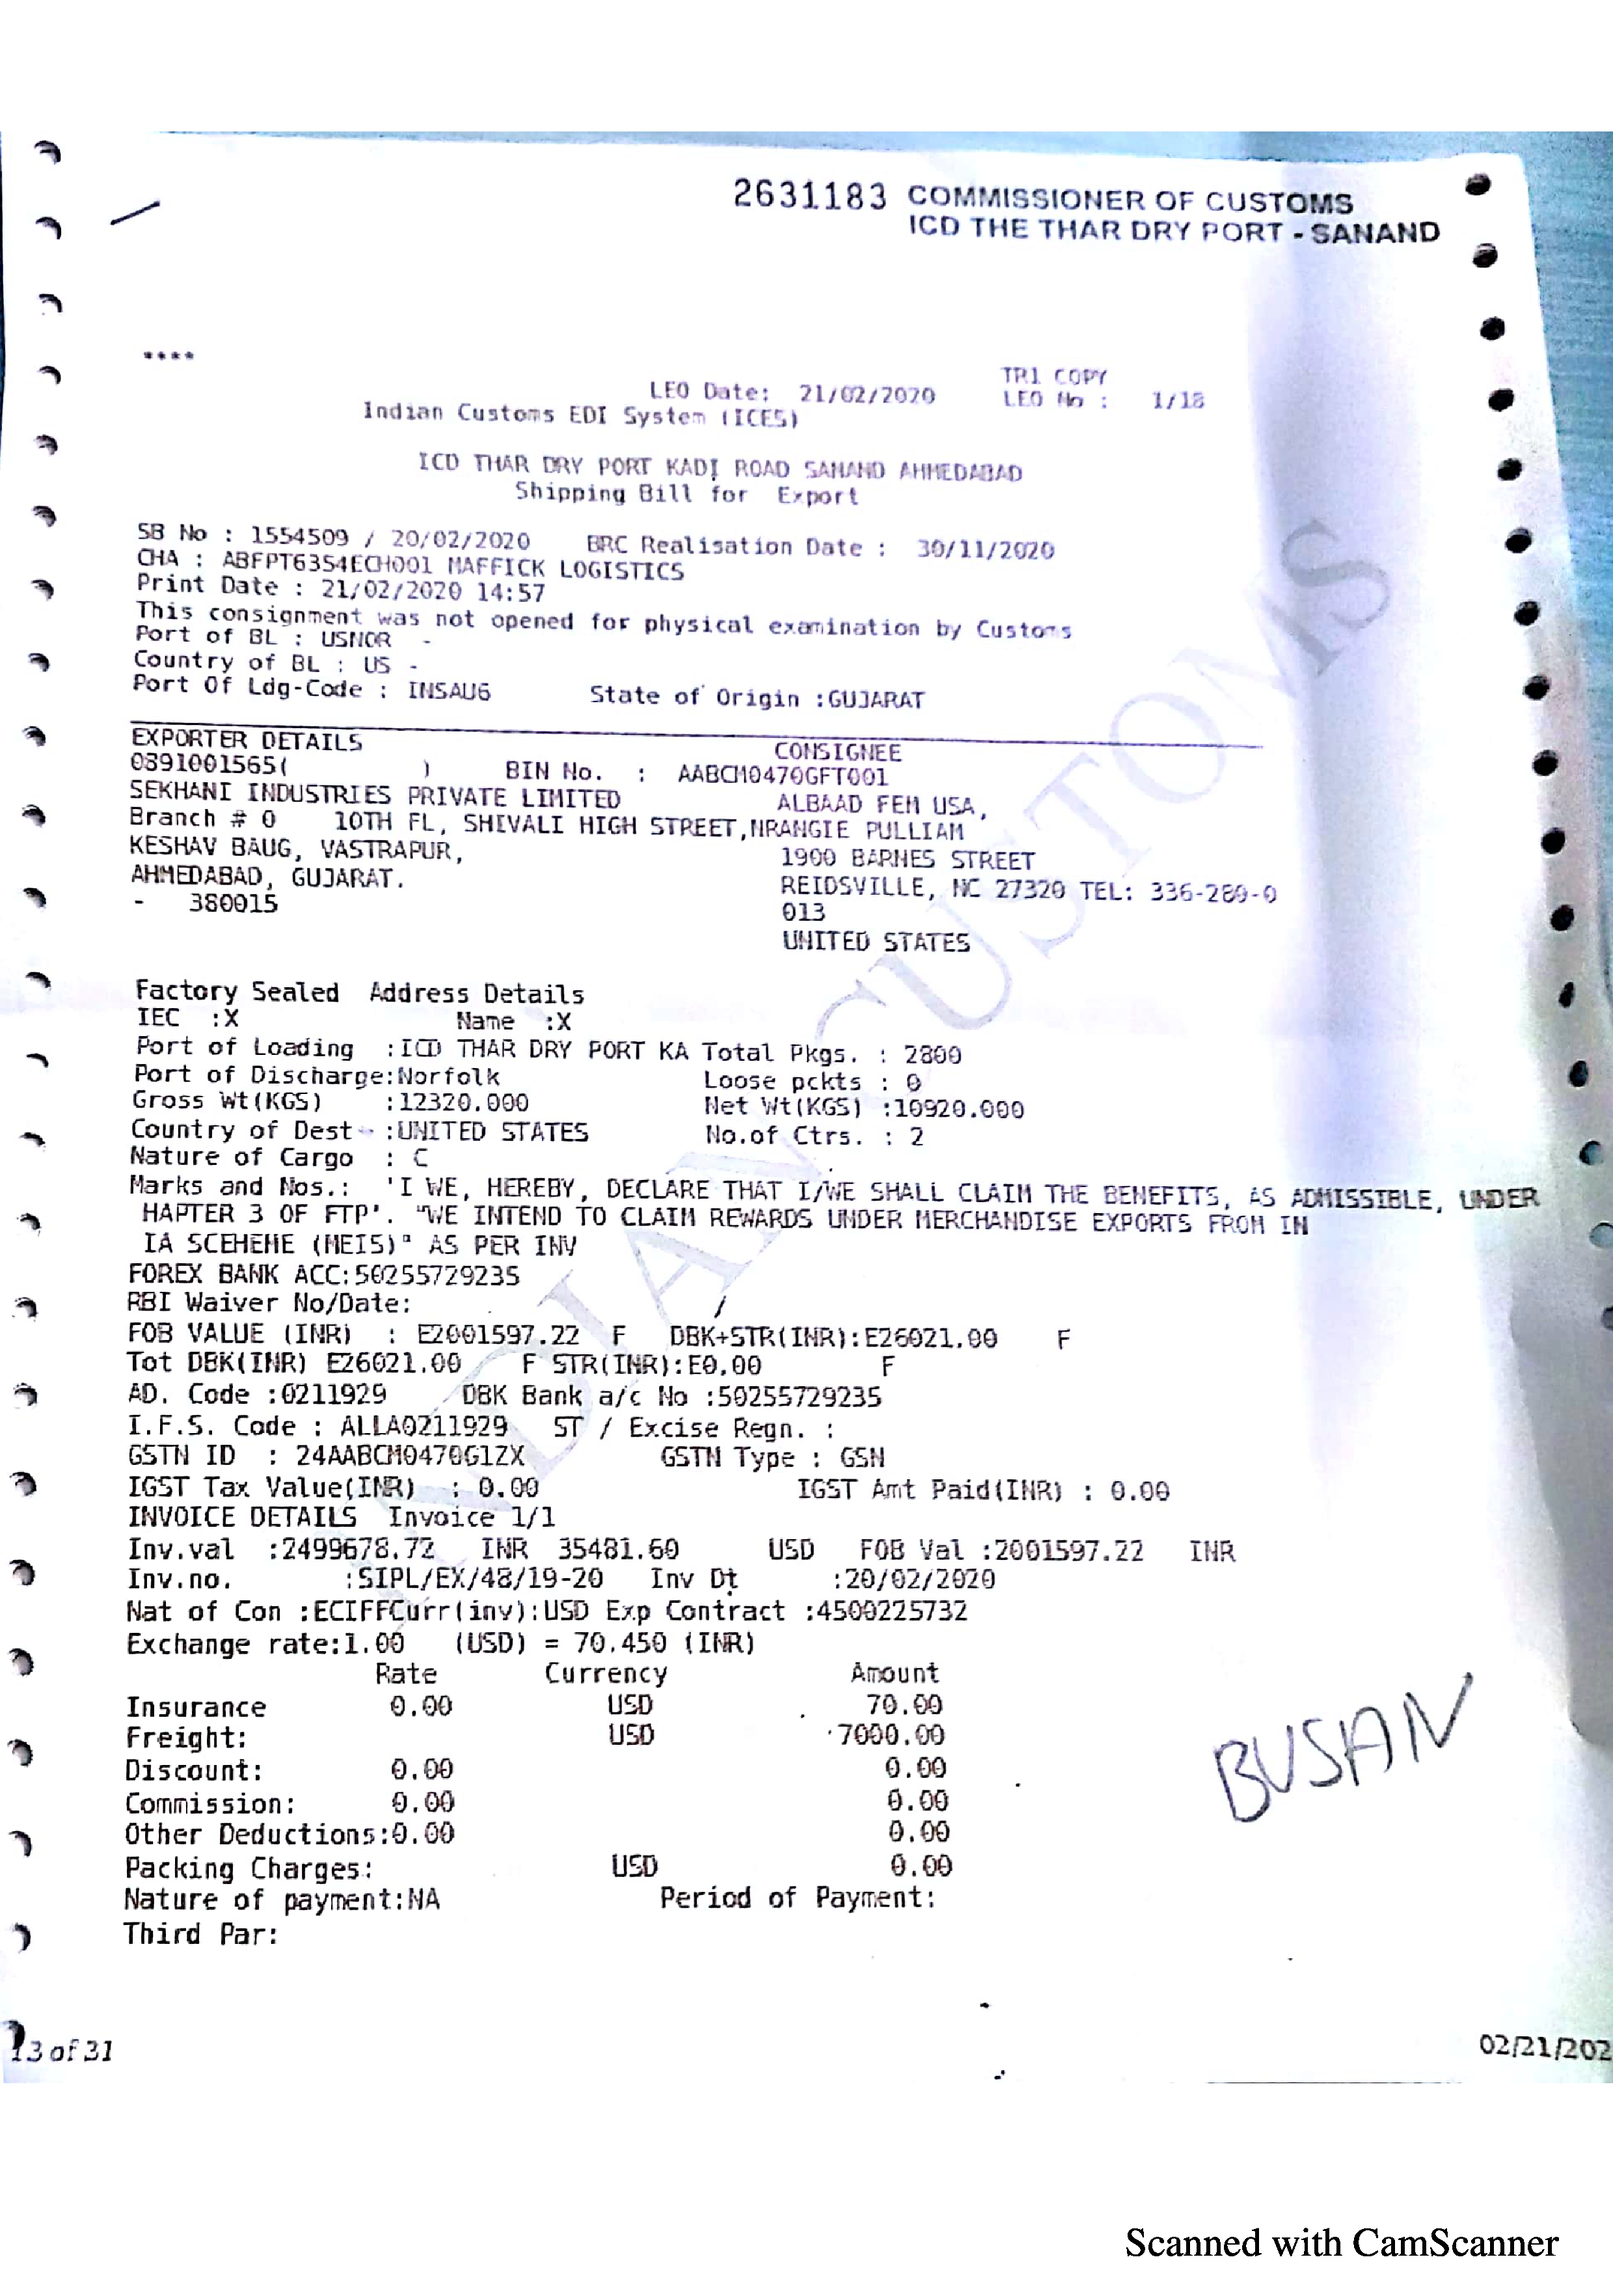
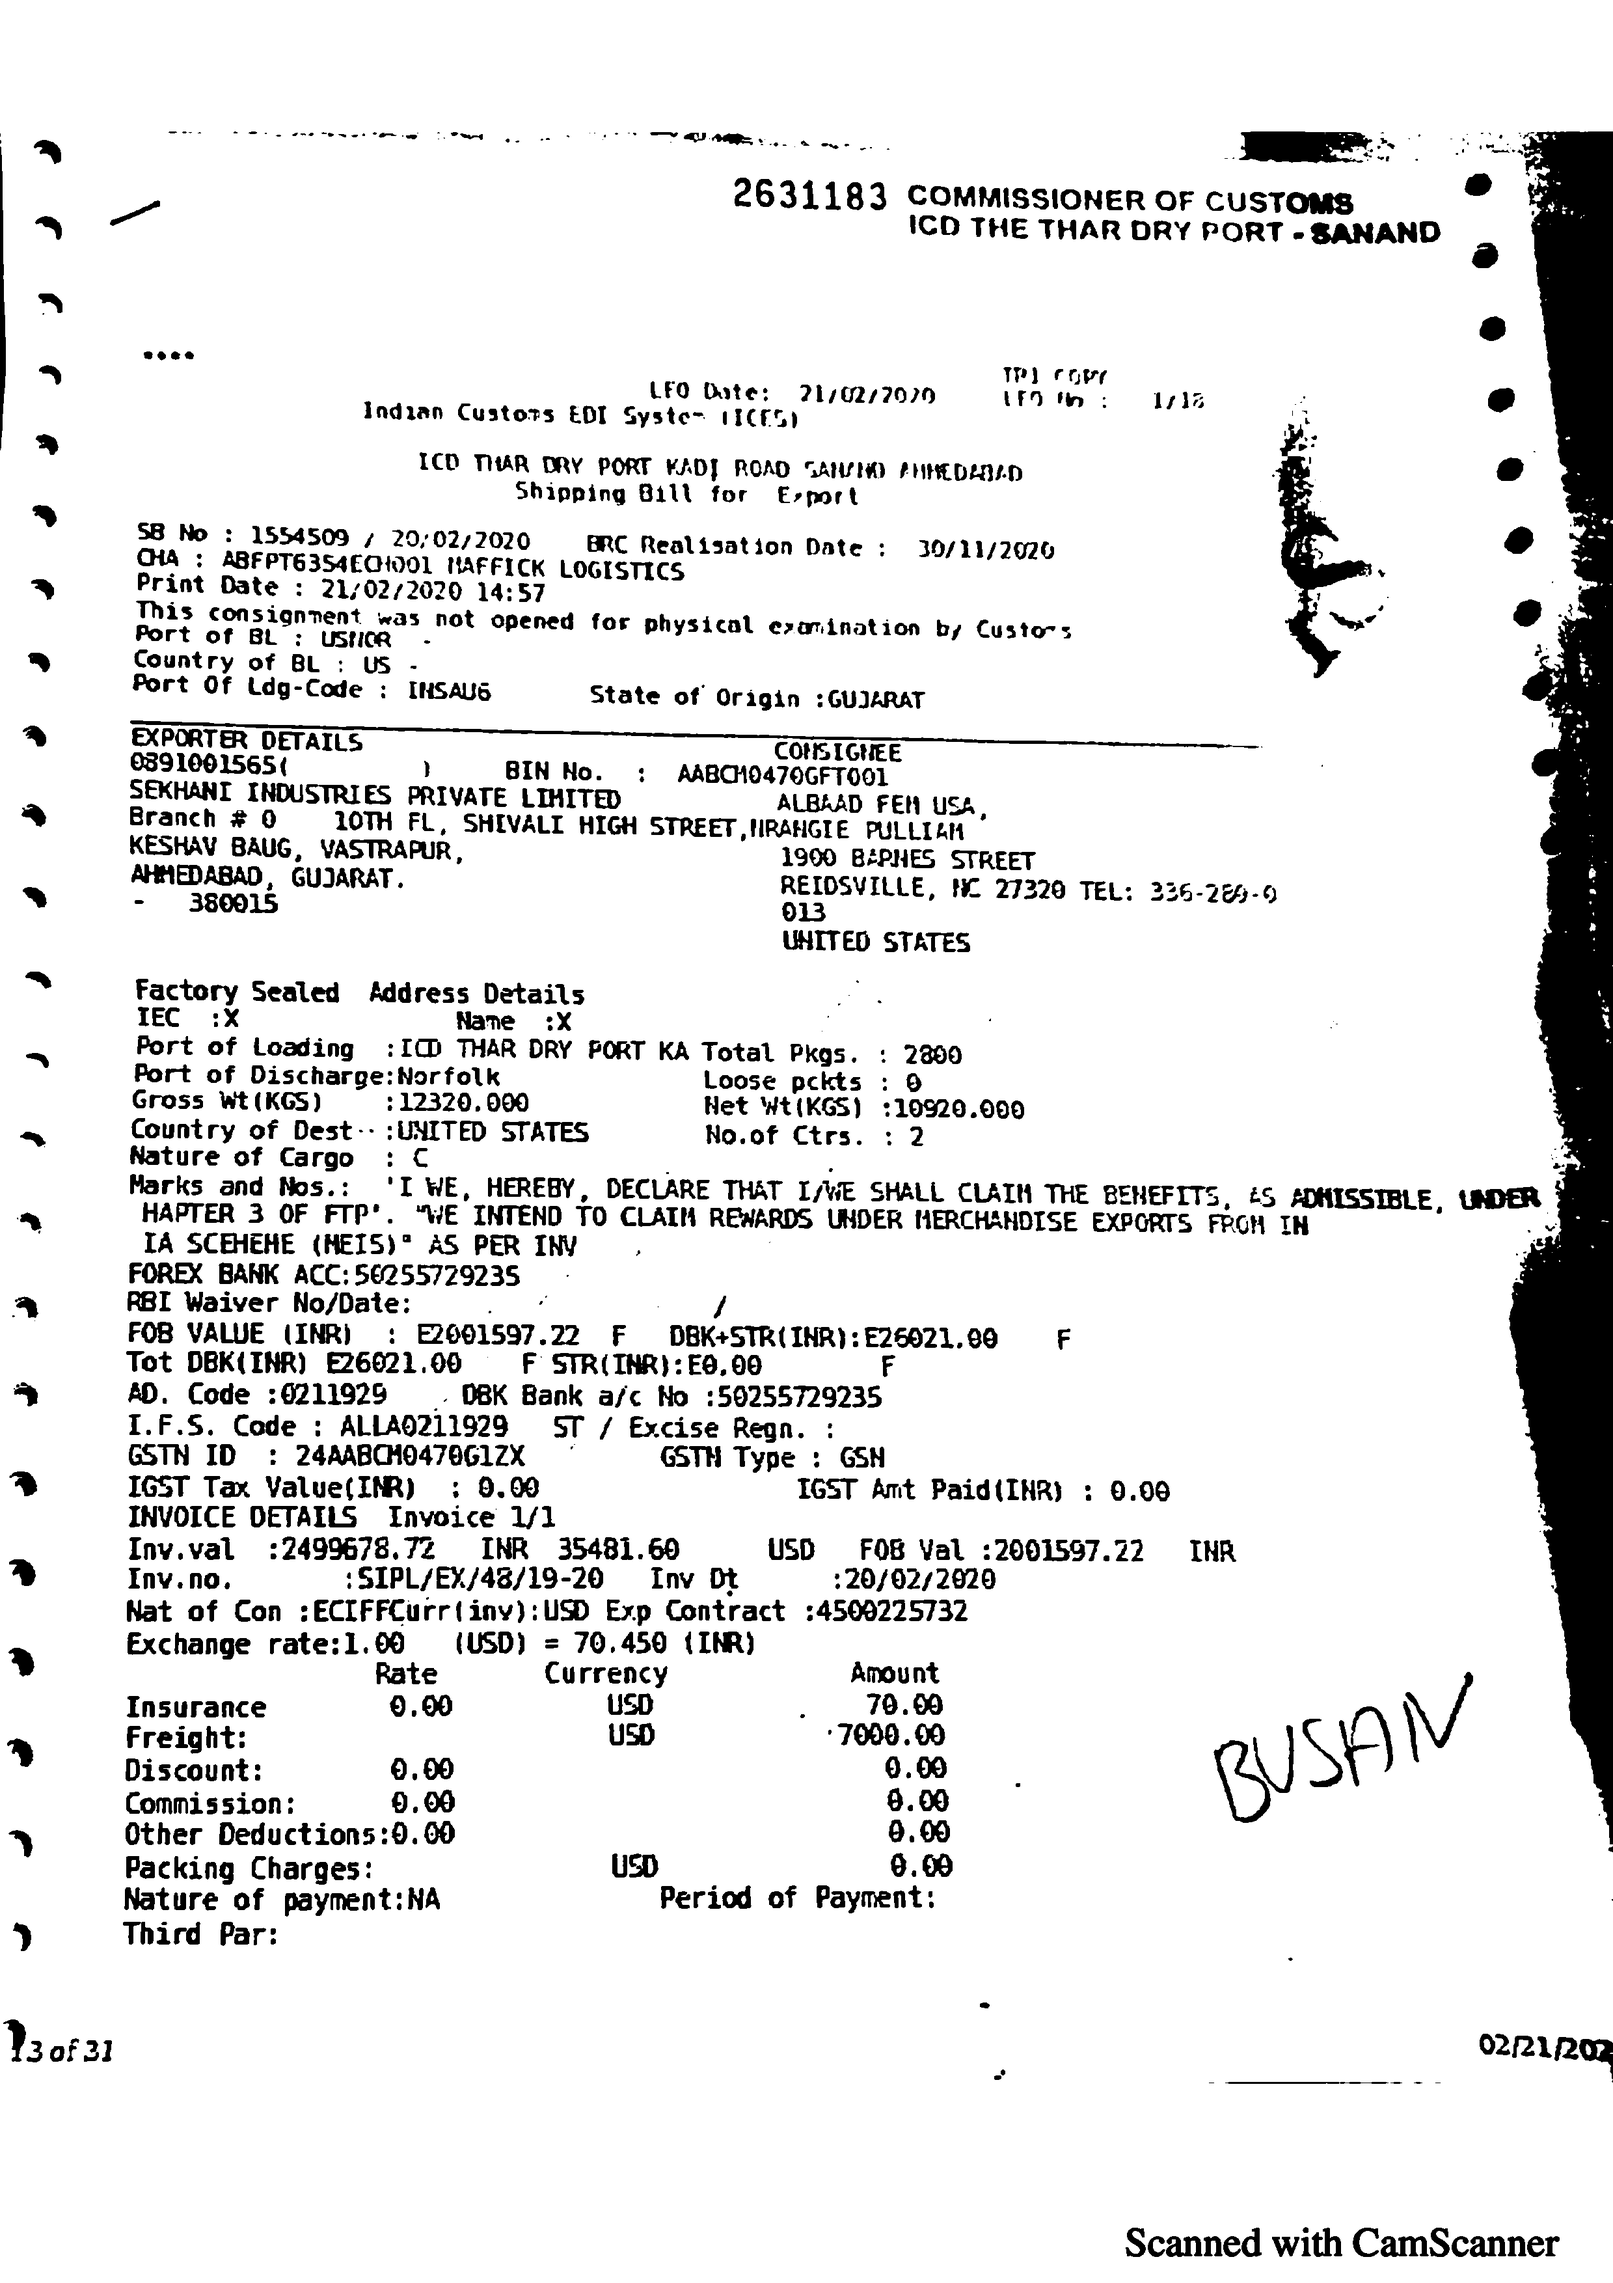
updated

diff --git a/final.py b/final.py
@@ -7,21 +7,24 @@ pdf= wi(filename="OCR_1.pdf", resolution=300)
 img=pdf.convert('png')
 img.save(filename='u.png')
 
-pdf2= wi(filename="OCR_2.pdf", resolution=700)
+pdf2= wi(filename="OCR_2.pdf", resolution=300)
 img2=pdf2.convert('png')
 img2.save(filename='v.png')
 
 
 pytesseract.pytesseract.tesseract_cmd = 'C:\\Program Files\\Tesseract-OCR\\tesseract.exe'
 img = cv2.imread('u.png')
-img = cv2.cvtColor(img,cv2.COLOR_BGR2RGB)
+img = cv2.cvtColor(img,cv2.COLOR_BGR2GRAY)
+img = cv2.GaussianBlur(img,(5,5),0)
+
+(thresh, img) = cv2.threshold(img, 200, 255, cv2.THRESH_BINARY)
 
 
 #img = cv2.resize(img, None, fx=5, fy=5, interpolation=cv2.INTER_AREA)
 
 ###############pdf 1
 ##detect boxes for each char.
-himg,wimg,_= img.shape
+himg,wimg= img.shape
 
 p=(pytesseract.image_to_string(img))
 
@@ -37,15 +40,15 @@ for b in boxes.splitlines():
 
 #print(p)
 
-a1=p[(p.find('IEC')+5):(p.find('Name')-2)]
-a2=p[(p.find('Loading')+8):(p.find('Total')-1)]
+a1=p[(p.find('IEC')+5):(p.find('Na')-1)]
+a2=p[(p.find('Loading')+9):(p.find('Total')-1)]
 a3=p[(p.find('Discharge')+10):(p.find('Loose')-1)]
 a4=p[(p.find('Gross')+16):(p.find('et Wt')-3)]
 a5=p[(p.find('Dest')+8):(p.find('No.of Ctrs')-1)]
-a6=p[(p.find('Total Pkgs')+14):(p.find('Discharge')-9)]
-a7=p[(p.find('Loose')+14):(p.find('Gross')-1)]
-a8=p[(p.find('et Wt(KGS)')+12):(p.find('Dest')-12)]
-a9=p[(p.find('of Ctrs')+11):(p.find('Nature')-3)]
+a6=p[(p.find('Total Pk')+14):(p.find('Discharge')-9)]
+a7=p[(p.find('Loose')+14):(p.find('Gross')-2)]
+a8=p[(p.find('et Wt(KGS')+12):(p.find('Dest')-12)]
+a9=p[(p.find('of Ctrs')+11):(p.find('Nature')-1)]
 
 
 #
@@ -57,10 +60,14 @@ a9=p[(p.find('of Ctrs')+11):(p.find('Nature')-3)]
 
 
 img2 = cv2.imread('v.png')
-img2 = cv2.cvtColor(img2,cv2.COLOR_BGR2RGB)
+
+img2 = cv2.cvtColor(img2,cv2.COLOR_BGR2GRAY)
+img2 = cv2.GaussianBlur(img2,(7,7),0)
+
+(thresh, img2) = cv2.threshold(img2, 150, 255, cv2.THRESH_BINARY)
 
 ##detect each word
-himg,wimg,_= img2.shape
+himg,wimg= img2.shape
 #cong = r'--oem 3 --psm 6 outputdata words'
 boxes = pytesseract.image_to_data(img2)
 #print(boxes)
